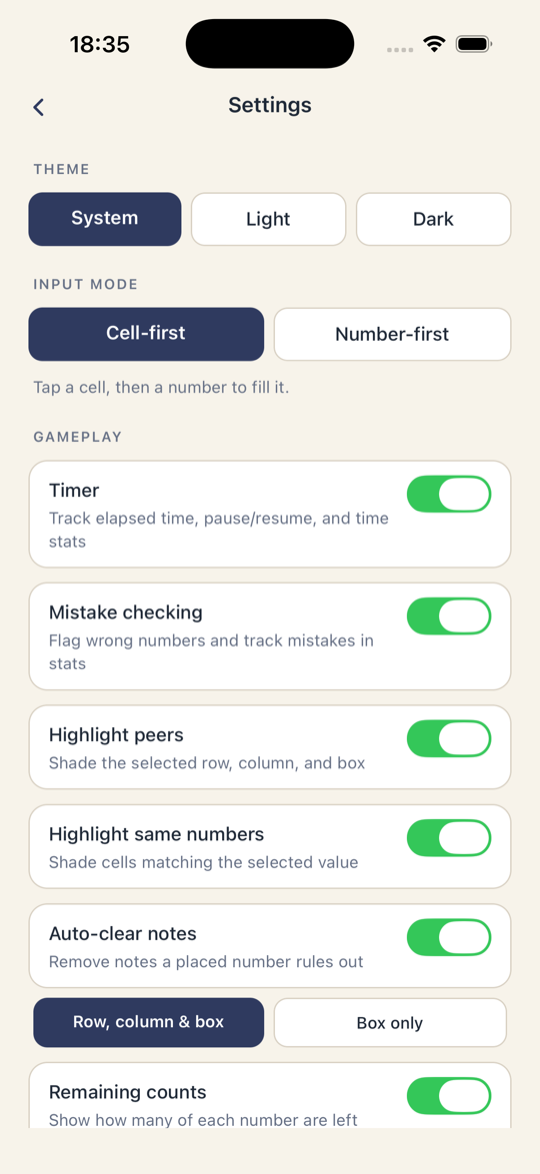
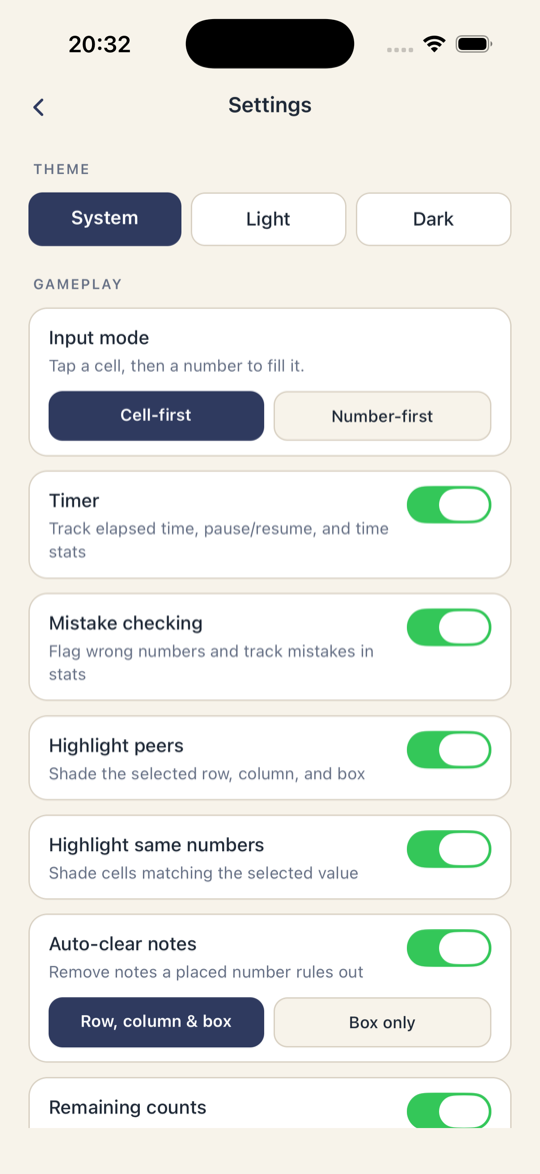
Group settings selectors into their setting cards
Move the auto-clear scope buttons inside the Auto-clear notes card, and move
Input mode into the Gameplay section as a white card matching the other rows
(label + hint with a segmented control), instead of a separate top-level block.

diff --git a/src/app/settings.tsx b/src/app/settings.tsx
@@ -179,47 +179,53 @@ export default function SettingsScreen() {
 
           <View className="gap-3">
             <Text className="text-ink-soft px-1 text-xs font-semibold tracking-widest uppercase">
-              Input mode
-            </Text>
-            <View className="flex-row gap-2">
-              {INPUT_MODE_OPTIONS.map((opt) => {
-                const active = settings.inputMode === opt.value;
-                return (
-                  <Pressable
-                    key={opt.value}
-                    onPress={() => setInputMode(opt.value)}
-                    accessibilityRole="button"
-                    accessibilityState={{ selected: active }}
-                    accessibilityLabel={`${opt.label} input`}
-                    className={
-                      active
-                        ? "bg-primary flex-1 items-center rounded-xl py-3"
-                        : "border-line bg-surface flex-1 items-center rounded-xl border py-3"
-                    }
-                  >
-                    <Text
-                      className={active ? "text-on-primary font-semibold" : "text-ink font-medium"}
-                    >
-                      {opt.label}
-                    </Text>
-                  </Pressable>
-                );
-              })}
-            </View>
-            <Text className="text-ink-soft px-1 text-sm">
-              {settings.inputMode === "cell"
-                ? "Tap a cell, then a number to fill it."
-                : "Tap a number, then the cells to place it in."}
-            </Text>
-          </View>
-
-          <View className="gap-3">
-            <Text className="text-ink-soft px-1 text-xs font-semibold tracking-widest uppercase">
               Gameplay
             </Text>
+            <View className="border-line bg-surface gap-3 rounded-2xl border px-4 py-3">
+              <View className="gap-0.5">
+                <Text className="text-ink text-base font-medium">Input mode</Text>
+                <Text className="text-ink-soft text-sm">
+                  {settings.inputMode === "cell"
+                    ? "Tap a cell, then a number to fill it."
+                    : "Tap a number, then the cells to place it in."}
+                </Text>
+              </View>
+              <View className="flex-row gap-2">
+                {INPUT_MODE_OPTIONS.map((opt) => {
+                  const active = settings.inputMode === opt.value;
+                  return (
+                    <Pressable
+                      key={opt.value}
+                      onPress={() => setInputMode(opt.value)}
+                      accessibilityRole="button"
+                      accessibilityState={{ selected: active }}
+                      accessibilityLabel={`${opt.label} input`}
+                      className={
+                        active
+                          ? "bg-primary flex-1 rounded-xl px-3 py-2.5"
+                          : "border-line bg-canvas flex-1 rounded-xl border px-3 py-2.5"
+                      }
+                    >
+                      <Text
+                        className={
+                          active
+                            ? "text-on-primary text-center text-sm font-semibold"
+                            : "text-ink text-center text-sm font-medium"
+                        }
+                      >
+                        {opt.label}
+                      </Text>
+                    </Pressable>
+                  );
+                })}
+              </View>
+            </View>
             {TOGGLES.map((t) => (
-              <View key={t.key} className="gap-2">
-                <View className="border-line bg-surface flex-row items-center justify-between gap-3 rounded-2xl border px-4 py-3">
+              <View
+                key={t.key}
+                className="border-line bg-surface gap-3 rounded-2xl border px-4 py-3"
+              >
+                <View className="flex-row items-center justify-between gap-3">
                   <View className="flex-1 gap-0.5">
                     <Text className="text-ink text-base font-medium">{t.label}</Text>
                     <Text className="text-ink-soft text-sm">{t.hint}</Text>
@@ -231,7 +237,7 @@ export default function SettingsScreen() {
                   />
                 </View>
                 {t.key === "autoNoteCleanup" && settings.autoNoteCleanup ? (
-                  <View className="flex-row gap-2 px-1">
+                  <View className="flex-row gap-2">
                     {CLEANUP_SCOPE_OPTIONS.map((opt) => {
                       const active = settings.autoNoteCleanupScope === opt.value;
                       return (
@@ -245,7 +251,7 @@ export default function SettingsScreen() {
                           className={
                             active
                               ? "bg-primary flex-1 rounded-xl px-3 py-2.5"
-                              : "border-line bg-surface flex-1 rounded-xl border px-3 py-2.5"
+                              : "border-line bg-canvas flex-1 rounded-xl border px-3 py-2.5"
                           }
                         >
                           <Text